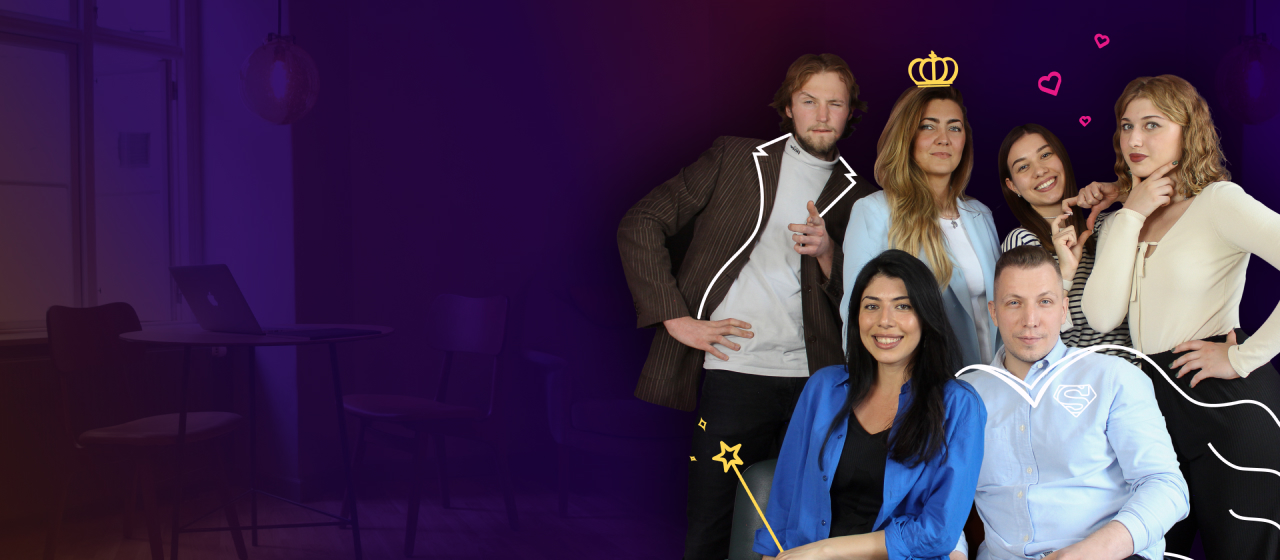
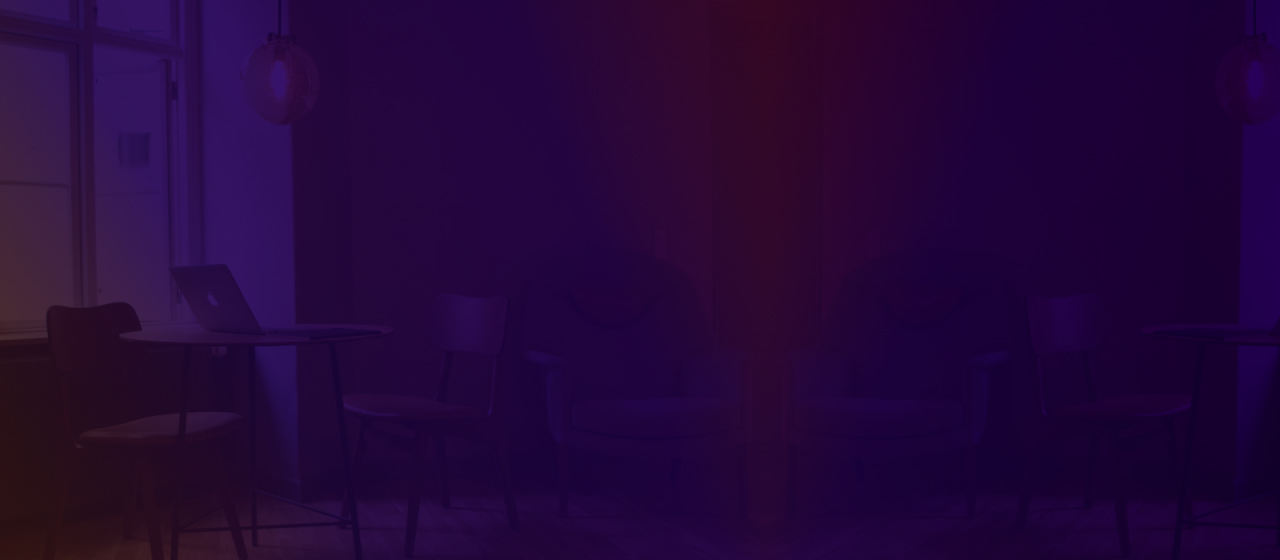
feat: adaptive for mainscreen

diff --git a/src/assets/scss/blocks/mainscreen.scss b/src/assets/scss/blocks/mainscreen.scss
@@ -1,4 +1,7 @@
 .mainscreen {
+	overflow: hidden;
+	display: flex;
+	position: relative;
 	max-width: 1280px;
 	height: 560px;
 	padding: 60px 0 0 51px;
@@ -6,7 +9,7 @@
 	color: white;
 
 	border-radius: $border-radius;
-	background: url("../../assets/images/mainscreens/mainscreen-1.jpg") center
+	background: url("../../assets/images/mainscreens/mainscreen-1.jpg") right
 		center/cover no-repeat;
 
 	.title {
@@ -22,18 +25,23 @@
 		font-size: 18px;
 	}
 
-	&__description {
-		position: relative;
-	}
-
 	&__note {
 		position: absolute;
-		bottom: -100px;
-		right: -105px;
+		bottom: 10%;
+		left: 40%;
 	}
 
 	&__left {
 		max-width: 440px;
+	}
+
+	&__right {
+		position: absolute;
+		bottom: 0;
+		right: 0;
+		display: block;
+		width: 100%;
+		object-fit: contain;
 	}
 
 	&__text {
@@ -42,11 +50,183 @@
 
 	&--speaking-club {
 		padding: 68px 0 0 106px;
+		background-image: url("../../assets/images/mainscreens/mainscreen-8.jpg");
 
 		.title {
 			margin-bottom: 38px;
 		}
+	}
 
-		background-image: url("../../assets/images/mainscreens/mainscreen-8.jpg");
+	@include breakpoint($breakpoint-xl) {
+		height: 520px;
+
+		&--speaking-club {
+			.mainscreen__right {
+				width: 1100px;
+			}
+		}
+	}
+
+	@include breakpoint($breakpoint-lg) {
+		height: 490px;
+
+		.title {
+			font-size: 46px;
+			line-height: 45px;
+		}
+
+		.main-list {
+			font-size: 16px;
+			line-height: 18px;
+		}
+
+		&__left {
+			max-width: 400px;
+		}
+
+		&__note {
+			width: 63px;
+			height: 85px;
+		}
+	}
+
+	@include breakpoint($breakpoint-md) {
+		padding: 40px 0 0 38px;
+		height: 420px;
+
+		&__right {
+			width: 1000px;
+		}
+
+		&__note {
+			left: 33%;
+		}
+
+		&--speaking-club {
+			.btn {
+				margin-top: 50px;
+				min-width: 267px;
+			}
+
+			.mainscreen__right {
+				width: 900px;
+			}
+		}
+	}
+
+	@include breakpoint($breakpoint-sm) {
+		height: 360px;
+
+		.title {
+			font-size: 42px;
+			line-height: 40px;
+		}
+
+		&__left {
+			max-width: 370px;
+		}
+
+		&__right {
+			width: 105%;
+		}
+
+		&__note {
+			display: none;
+		}
+
+		&--speaking-club {
+			.title {
+				margin-bottom: 20px;
+			}
+
+			.btn {
+				margin-top: 20px;
+			}
+
+			.mainscreen__right {
+				width: 800px;
+			}
+		}
+	}
+
+	@include breakpoint($breakpoint-xs) {
+		height: 671px;
+		border-radius: $border-radius-sm;
+
+		.title {
+			margin-bottom: 45px;
+		}
+
+		&__left {
+			max-width: 500px;
+		}
+
+		&__right {
+			width: 930px;
+		}
+
+		&__text {
+			max-width: 280px;
+		}
+
+		&--speaking-club {
+			.mainscreen__left {
+				max-width: 440px;
+			}
+
+			.mainscreen__right {
+				width: 145%;
+			}
+		}
+	}
+
+	@include breakpoint($breakpoint-mobile) {
+		height: 585px;
+		padding: 15px 0 0 20px;
+
+		.title {
+			margin-bottom: 20px;
+		}
+
+		&__left {
+			max-width: 370px;
+		}
+
+		&__right {
+			width: 760px;
+		}
+
+		&__text {
+			font-size: 16px;
+			font-weight: 500;
+			line-height: 18px;
+		}
+
+		&--speaking-club {
+			padding: 40px 0 0 38px;
+			height: 671px;
+
+			.mainscreen__right {
+				right: auto;
+				left: -80%;
+				width: 800px;
+			}
+		}
+	}
+
+	@include breakpoint($breakpoint-sm-mobile) {
+		&__right {
+			width: 700px;
+		}
+
+		&--speaking-club {
+			padding: 25px 0 0 25px;
+
+			.mainscreen__right {
+				right: -40px;
+				left: auto;
+				width: 800px;
+			}
+		}
 	}
 }

diff --git a/src/assets/scss/blocks/header.scss b/src/assets/scss/blocks/header.scss
@@ -67,6 +67,10 @@
 		margin: 0 auto;
 		transition: 0.2s linear all;
 
+		@include breakpoint($breakpoint-md) {
+			max-width: calc(100% - 30px);
+		}
+
 		.header-container {
 			max-width: 1280px;
 			margin: 0 auto;

diff --git a/src/assets/scss/main.scss b/src/assets/scss/main.scss
@@ -45,6 +45,10 @@ a {
 		margin-right: 62px;
 		margin-left: 62px;
 	}
+
+	@include breakpoint($breakpoint-md) {
+		padding: 0 15px;
+	}
 }
 
 @import "blocks/license";
